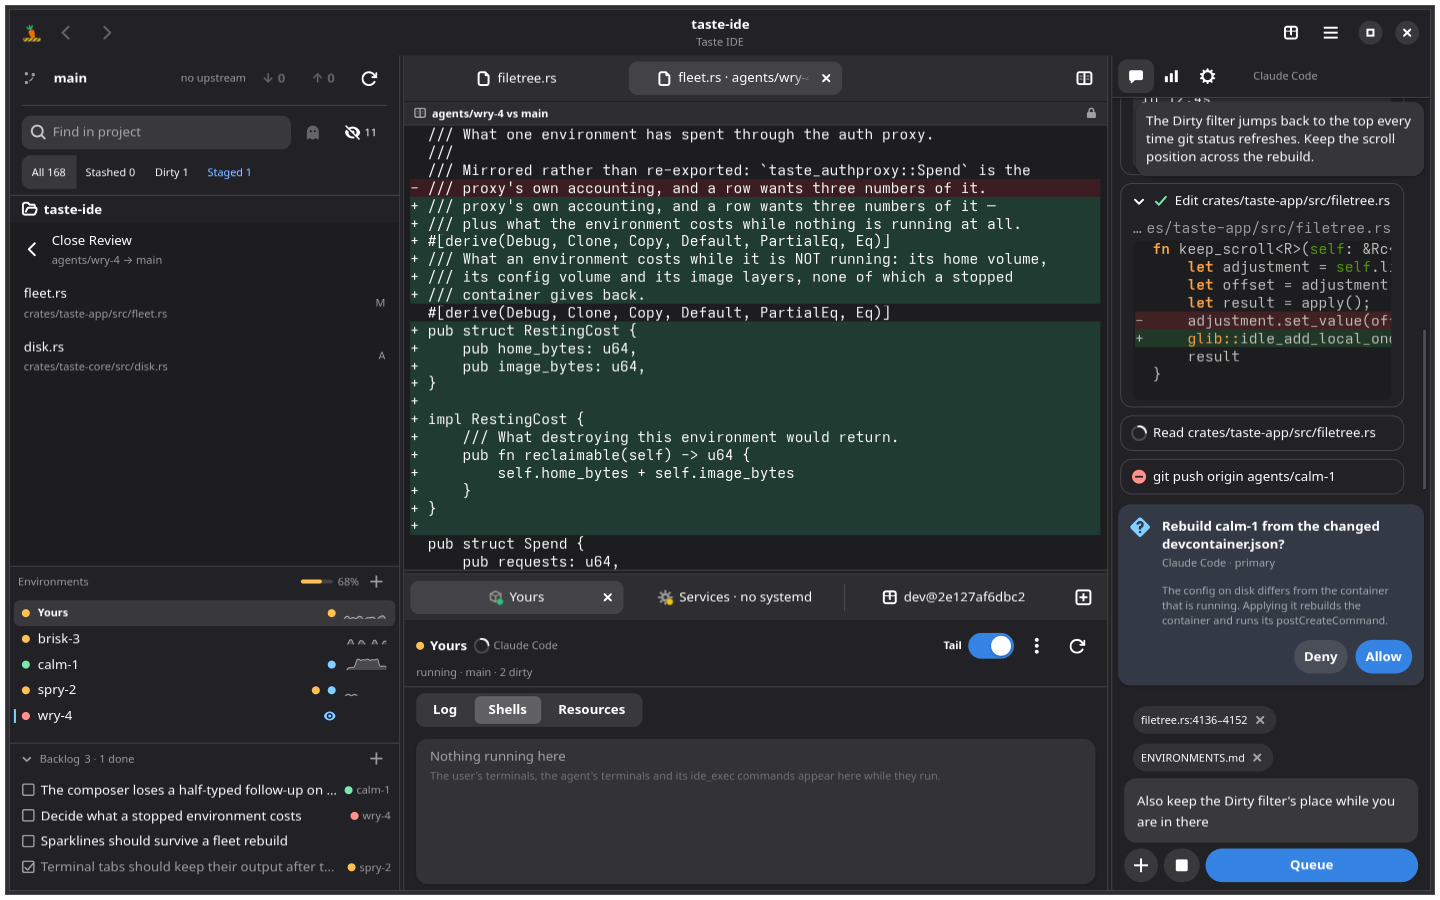
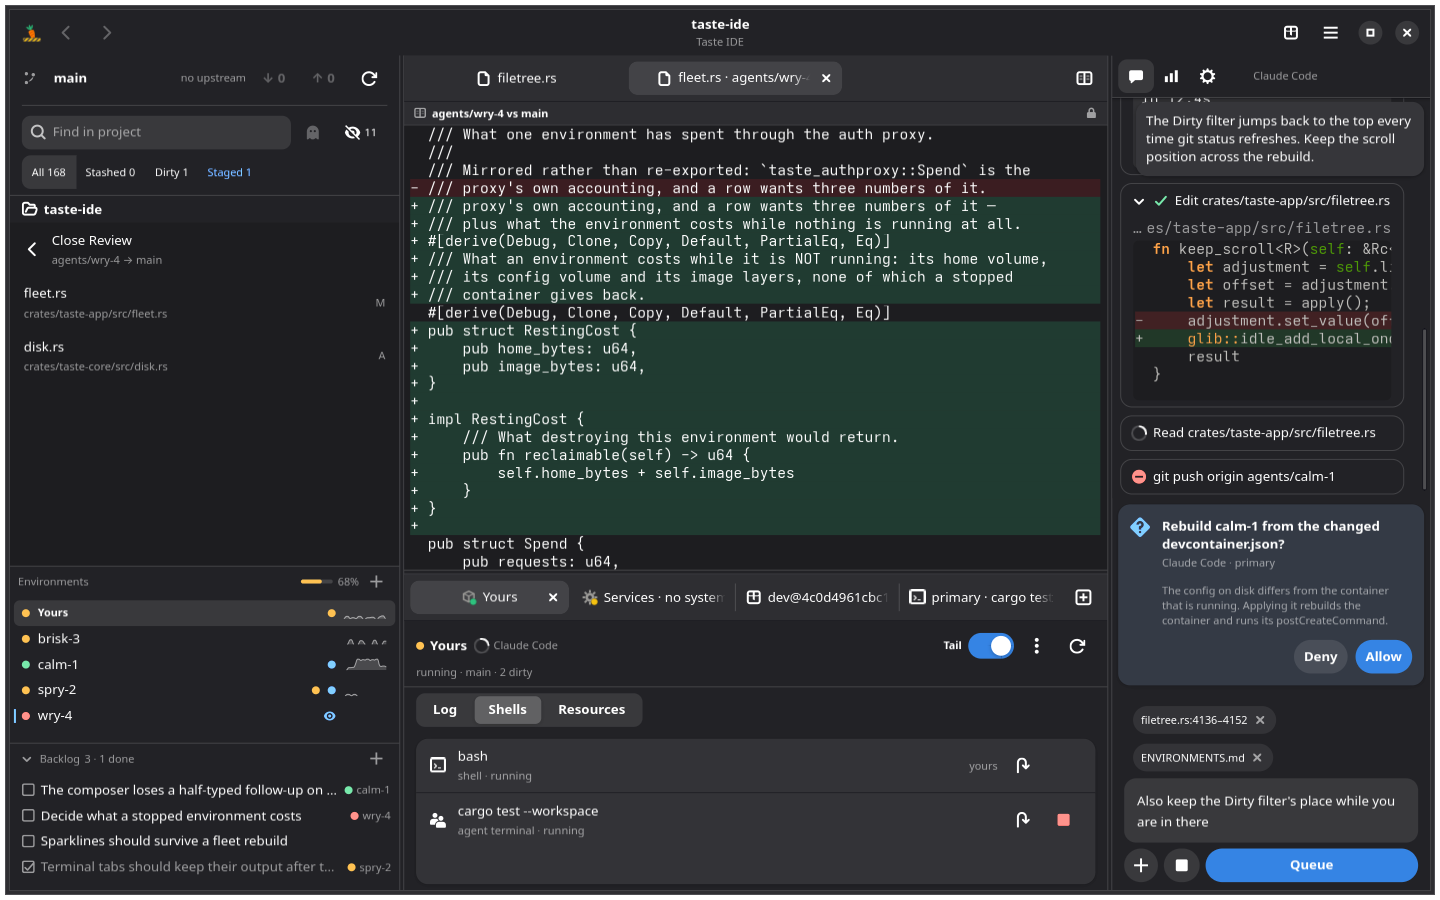
Polish: the review diff's console stops contradicting its own header
A review is read in the user's own checkout, so `probe_env` for the
review-diff shot is "primary" — and primary is running, which the
console header says: "running · main · 2 dirty". The agent-terminal seed
was skipped for every view with "review" in its name, so the roster under
that header read "Nothing running here".

The exclusion exists for the review shot, whose environment is flagged
and therefore stopped, and it belongs to that environment rather than to
the name of the view. Suppressing it here swapped one contradiction for
the mirror image of it.

diff --git a/crates/taste-app/src/window.rs b/crates/taste-app/src/window.rs
@@ -1016,7 +1016,16 @@ pub fn build_window(app: &adw::Application, root: PathBuf) -> adw::ApplicationWi
         // The fixture used to seed one anyway, and the frame said "stopped"
         // and "agent terminal · running" at once. A fixture that
         // contradicts the code is a fixture to fix.
-        if view != "review" && view != "review-diff" {
+        //
+        // The review DIFF is not that shot. A review is read in the user's
+        // OWN checkout — `probe_env` is "primary" for it — and the primary
+        // checkout is running, which its console header says. Suppressing
+        // its terminals swapped one contradiction for the mirror image of
+        // it: a header reading "running · main · 2 dirty" over a roster
+        // reading "Nothing running here". The exclusion belongs to the
+        // environment that is stopped, not to every view with "review" in
+        // its name.
+        if view != "review" {
             console.seed_agent_terminal_for_probe(
                 &taste_core::environment::EnvironmentId::parse(probe_env)
                     .unwrap_or_else(|_| primary_env.clone()),
